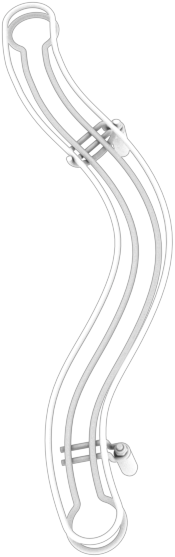
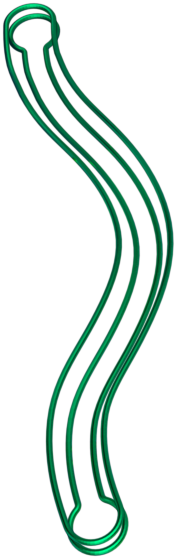
refactor: add spaceship rail assets (#244)
* refactor: update rail assets and shape

* fix: add assets to newly merged test

Changed region(s): [[0.0, 0.0, 1.0, 1.0], [0.7714, 0.8241, 0.8, 0.8546]]

diff --git a/packages/pinball_components/lib/src/components/spaceship_rail.dart b/packages/pinball_components/lib/src/components/spaceship_rail.dart
@@ -2,88 +2,71 @@ import 'dart:math' as math;
 
 import 'package:flame/components.dart';
 import 'package:flame_forge2d/flame_forge2d.dart';
-import 'package:pinball_components/gen/assets.gen.dart';
-import 'package:pinball_components/pinball_components.dart' hide Assets;
+import 'package:pinball_components/pinball_components.dart';
 import 'package:pinball_flame/pinball_flame.dart';
 
 /// {@template spaceship_rail}
-/// A [Blueprint] for the spaceship drop tube.
+/// A [Blueprint] for the rail exiting the [Spaceship].
 /// {@endtemplate}
 class SpaceshipRail extends Blueprint {
   /// {@macro spaceship_rail}
   SpaceshipRail()
       : super(
           components: [
-            _SpaceshipRailRamp(),
+            _SpaceshipRail(),
             _SpaceshipRailExit(),
-            _SpaceshipRailBase(radius: 0.55)
-              ..initialPosition = Vector2(-26.15, -18.65),
-            _SpaceshipRailBase(radius: 0.8)
-              ..initialPosition = Vector2(-25.5, 12.9),
-            _SpaceshipRailForeground()
+            _SpaceshipRailExitSpriteComponent()
           ],
         );
 }
 
-class _SpaceshipRailRamp extends BodyComponent with Layered {
-  _SpaceshipRailRamp()
+class _SpaceshipRail extends BodyComponent with Layered {
+  _SpaceshipRail()
       : super(
           priority: RenderPriority.spaceshipRail,
+          children: [_SpaceshipRailSpriteComponent()],
           renderBody: false,
-          children: [_SpaceshipRailRampSpriteComponent()],
         ) {
     layer = Layer.spaceshipExitRail;
   }
 
   List<FixtureDef> _createFixtureDefs() {
-    final fixturesDefs = <FixtureDef>[];
-
     final topArcShape = ArcShape(
-      center: Vector2(-35.5, -30.9),
+      center: Vector2(-35.1, -30.9),
       arcRadius: 2.5,
       angle: math.pi,
       rotation: 0.2,
     );
-    final topArcFixtureDef = FixtureDef(topArcShape);
-    fixturesDefs.add(topArcFixtureDef);
 
     final topLeftCurveShape = BezierCurveShape(
       controlPoints: [
-        Vector2(-37.9, -30.4),
-        Vector2(-38, -23.9),
+        Vector2(-37.6, -30.4),
+        Vector2(-37.8, -23.9),
         Vector2(-30.93, -18.2),
       ],
     );
-    final topLeftCurveFixtureDef = FixtureDef(topLeftCurveShape);
-    fixturesDefs.add(topLeftCurveFixtureDef);
 
     final middleLeftCurveShape = BezierCurveShape(
       controlPoints: [
         topLeftCurveShape.vertices.last,
         Vector2(-22.6, -10.3),
-        Vector2(-30, -0.2),
+        Vector2(-29.5, -0.2),
       ],
     );
-    final middleLeftCurveFixtureDef = FixtureDef(middleLeftCurveShape);
-    fixturesDefs.add(middleLeftCurveFixtureDef);
 
     final bottomLeftCurveShape = BezierCurveShape(
       controlPoints: [
         middleLeftCurveShape.vertices.last,
-        Vector2(-36, 8.6),
-        Vector2(-32.04, 18.3),
+        Vector2(-35.6, 8.6),
+        Vector2(-31.3, 18.3),
       ],
     );
-    final bottomLeftCurveFixtureDef = FixtureDef(bottomLeftCurveShape);
-    fixturesDefs.add(bottomLeftCurveFixtureDef);
 
     final topRightStraightShape = EdgeShape()
       ..set(
-        Vector2(-33, -31.3),
         Vector2(-27.2, -21.3),
+        Vector2(-33, -31.3),
       );
-    final topRightStraightFixtureDef = FixtureDef(topRightStraightShape);
-    fixturesDefs.add(topRightStraightFixtureDef);
 
     final middleRightCurveShape = BezierCurveShape(
       controlPoints: [
@@ -92,8 +75,6 @@ class _SpaceshipRailRamp extends BodyComponent with Layered {
         Vector2(-25.29, 1.7),
       ],
     );
-    final middleRightCurveFixtureDef = FixtureDef(middleRightCurveShape);
-    fixturesDefs.add(middleRightCurveFixtureDef);
 
     final bottomRightCurveShape = BezierCurveShape(
       controlPoints: [
@@ -102,10 +83,16 @@ class _SpaceshipRailRamp extends BodyComponent with Layered {
         Vector2(-26.8, 15.7),
       ],
     );
-    final bottomRightCurveFixtureDef = FixtureDef(bottomRightCurveShape);
-    fixturesDefs.add(bottomRightCurveFixtureDef);
 
-    return fixturesDefs;
+    return [
+      FixtureDef(topArcShape),
+      FixtureDef(topLeftCurveShape),
+      FixtureDef(middleLeftCurveShape),
+      FixtureDef(bottomLeftCurveShape),
+      FixtureDef(topRightStraightShape),
+      FixtureDef(middleRightCurveShape),
+      FixtureDef(bottomRightCurveShape),
+    ];
   }
 
   @override
@@ -116,55 +103,47 @@ class _SpaceshipRailRamp extends BodyComponent with Layered {
   }
 }
 
-class _SpaceshipRailRampSpriteComponent extends SpriteComponent
+class _SpaceshipRailSpriteComponent extends SpriteComponent with HasGameRef {
+  _SpaceshipRailSpriteComponent()
+      : super(
+          anchor: Anchor.center,
+          position: Vector2(-29.4, -5.7),
+        );
+
+  @override
+  Future<void> onLoad() async {
+    await super.onLoad();
+
+    final sprite = Sprite(
+      gameRef.images.fromCache(
+        Assets.images.spaceship.rail.main.keyName,
+      ),
+    );
+    this.sprite = sprite;
+    size = sprite.originalSize / 10;
+  }
+}
+
+class _SpaceshipRailExitSpriteComponent extends SpriteComponent
     with HasGameRef {
-  @override
-  Future<void> onLoad() async {
-    await super.onLoad();
-
-    final sprite = await gameRef.loadSprite(
-      Assets.images.spaceship.rail.main.keyName,
-    );
-    this.sprite = sprite;
-    size = sprite.originalSize / 10;
-    anchor = Anchor.center;
-    position = Vector2(-29.4, -5.7);
-  }
-}
-
-class _SpaceshipRailForeground extends SpriteComponent with HasGameRef {
-  _SpaceshipRailForeground()
-      : super(priority: RenderPriority.spaceshipRailForeground);
+  _SpaceshipRailExitSpriteComponent()
+      : super(
+          anchor: Anchor.center,
+          position: Vector2(-28, 19.4),
+          priority: RenderPriority.spaceshipRailExit,
+        );
 
   @override
   Future<void> onLoad() async {
     await super.onLoad();
 
-    final sprite = await gameRef.loadSprite(
-      Assets.images.spaceship.rail.foreground.keyName,
+    final sprite = Sprite(
+      gameRef.images.fromCache(
+        Assets.images.spaceship.rail.exit.keyName,
+      ),
     );
     this.sprite = sprite;
     size = sprite.originalSize / 10;
-    anchor = Anchor.center;
-    position = Vector2(-28.5, 19.7);
-  }
-}
-
-/// Represents the ground bases of the [_SpaceshipRailRamp].
-class _SpaceshipRailBase extends BodyComponent with InitialPosition {
-  _SpaceshipRailBase({required this.radius}) : super(renderBody: false);
-
-  final double radius;
-
-  @override
-  Body createBody() {
-    final shape = CircleShape()..radius = radius;
-    final fixtureDef = FixtureDef(shape);
-    final bodyDef = BodyDef(
-      position: initialPosition,
-    );
-
-    return world.createBody(bodyDef)..createFixture(fixtureDef);
   }
 }
 

diff --git a/packages/pinball_components/lib/src/components/render_priority.dart b/packages/pinball_components/lib/src/components/render_priority.dart
@@ -24,7 +24,7 @@ abstract class RenderPriority {
   static const int ballOnSpaceship = _above + spaceshipSaucer;
 
   /// Render priority for the [Ball] while it's on the [SpaceshipRail].
-  static const int ballOnSpaceshipRail = _below + spaceshipSaucer;
+  static const int ballOnSpaceshipRail = _above + spaceshipRail;
 
   /// Render priority for the [Ball] while it's on the [LaunchRamp].
   static const int ballOnLaunchRamp = _above + launchRamp;
@@ -87,9 +87,9 @@ abstract class RenderPriority {
 
   static const int spaceshipRail = _above + bottomGroup;
 
-  static const int spaceshipRailForeground = _above + spaceshipRail;
+  static const int spaceshipRailExit = _above + ballOnSpaceshipRail;
 
-  static const int spaceshipSaucer = _above + spaceshipRail;
+  static const int spaceshipSaucer = _above + ballOnSpaceshipRail;
 
   static const int spaceshipSaucerWall = _above + spaceshipSaucer;
 

diff --git a/packages/pinball_components/test/src/components/spaceship_rail_test.dart b/packages/pinball_components/test/src/components/spaceship_rail_test.dart
@@ -11,13 +11,19 @@ import '../../helpers/helpers.dart';
 void main() {
   group('SpaceshipRail', () {
     TestWidgetsFlutterBinding.ensureInitialized();
-    final flameTester = FlameTester(TestGame.new);
+    final assets = [
+      Assets.images.spaceship.rail.main.keyName,
+      Assets.images.spaceship.rail.exit.keyName,
+    ];
+    final flameTester = FlameTester(() => TestGame(assets));
 
     flameTester.testGameWidget(
       'renders correctly',
       setUp: (game, tester) async {
+        await game.images.loadAll(assets);
         await game.addFromBlueprint(SpaceshipRail());
         await game.ready();
+        await tester.pump();
 
         game.camera.followVector2(Vector2.zero());
         game.camera.zoom = 8;

diff --git a/lib/game/game_assets.dart b/lib/game/game_assets.dart
@@ -76,7 +76,7 @@ extension PinballGameAssetsX on PinballGame {
         components.Assets.images.spaceship.ramp.arrow.active5.keyName,
       ),
       images.load(components.Assets.images.spaceship.rail.main.keyName),
-      images.load(components.Assets.images.spaceship.rail.foreground.keyName),
+      images.load(components.Assets.images.spaceship.rail.exit.keyName),
       images.load(components.Assets.images.androidBumper.a.lit.keyName),
       images.load(components.Assets.images.androidBumper.a.dimmed.keyName),
       images.load(components.Assets.images.androidBumper.b.lit.keyName),

diff --git a/packages/pinball_components/lib/gen/assets.gen.dart b/packages/pinball_components/lib/gen/assets.gen.dart
@@ -307,9 +307,9 @@ class $AssetsImagesDashBumperGen {
 class $AssetsImagesSpaceshipRailGen {
   const $AssetsImagesSpaceshipRailGen();
 
-  /// File path: assets/images/spaceship/rail/foreground.png
-  AssetGenImage get foreground =>
-      const AssetGenImage('assets/images/spaceship/rail/foreground.png');
+  /// File path: assets/images/spaceship/rail/exit.png
+  AssetGenImage get exit =>
+      const AssetGenImage('assets/images/spaceship/rail/exit.png');
 
   /// File path: assets/images/spaceship/rail/main.png
   AssetGenImage get main =>

diff --git a/test/game/pinball_game_test.dart b/test/game/pinball_game_test.dart
@@ -72,7 +72,7 @@ void main() {
     Assets.images.spaceship.ramp.arrow.active4.keyName,
     Assets.images.spaceship.ramp.arrow.active5.keyName,
     Assets.images.spaceship.rail.main.keyName,
-    Assets.images.spaceship.rail.foreground.keyName,
+    Assets.images.spaceship.rail.exit.keyName,
     Assets.images.sparky.bumper.a.active.keyName,
     Assets.images.sparky.bumper.a.inactive.keyName,
     Assets.images.sparky.bumper.b.active.keyName,

diff --git a/test/game/components/android_acres_test.dart b/test/game/components/android_acres_test.dart
@@ -21,6 +21,8 @@ void main() {
     Assets.images.spaceship.ramp.arrow.active3.keyName,
     Assets.images.spaceship.ramp.arrow.active4.keyName,
     Assets.images.spaceship.ramp.arrow.active5.keyName,
+    Assets.images.spaceship.rail.main.keyName,
+    Assets.images.spaceship.rail.exit.keyName,
     Assets.images.androidBumper.a.lit.keyName,
     Assets.images.androidBumper.a.dimmed.keyName,
     Assets.images.androidBumper.b.lit.keyName,

diff --git a/packages/pinball_components/sandbox/lib/stories/android_acres/spaceship_rail_game.dart b/packages/pinball_components/sandbox/lib/stories/android_acres/spaceship_rail_game.dart
@@ -12,6 +12,10 @@ class SpaceshipRailGame extends BallGame {
           color: Colors.blue,
           ballPriority: RenderPriority.ballOnSpaceshipRail,
           ballLayer: Layer.spaceshipExitRail,
+          imagesFileNames: [
+            Assets.images.spaceship.rail.main.keyName,
+            Assets.images.spaceship.rail.exit.keyName,
+          ],
         );
 
   static const description = '''
